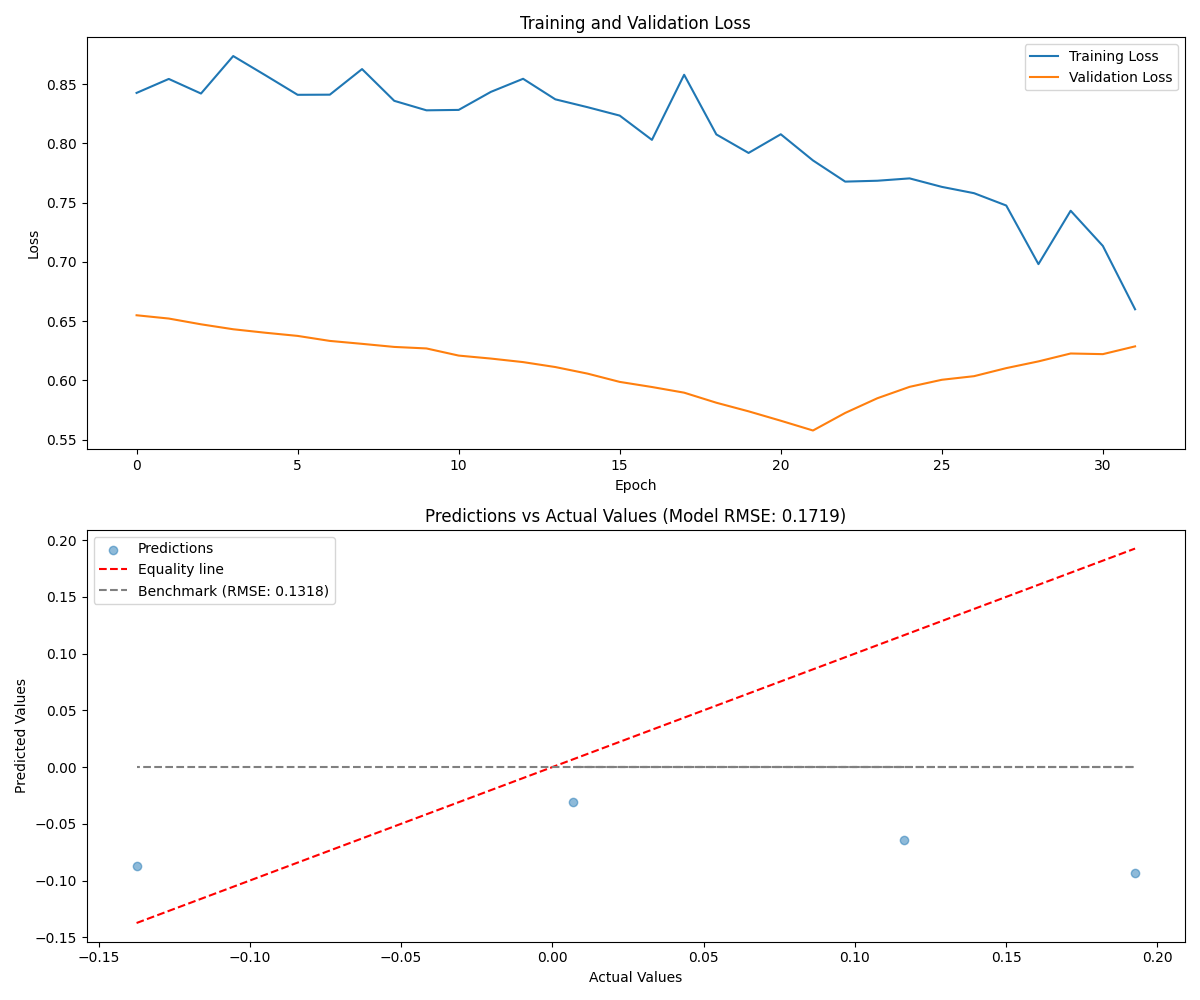
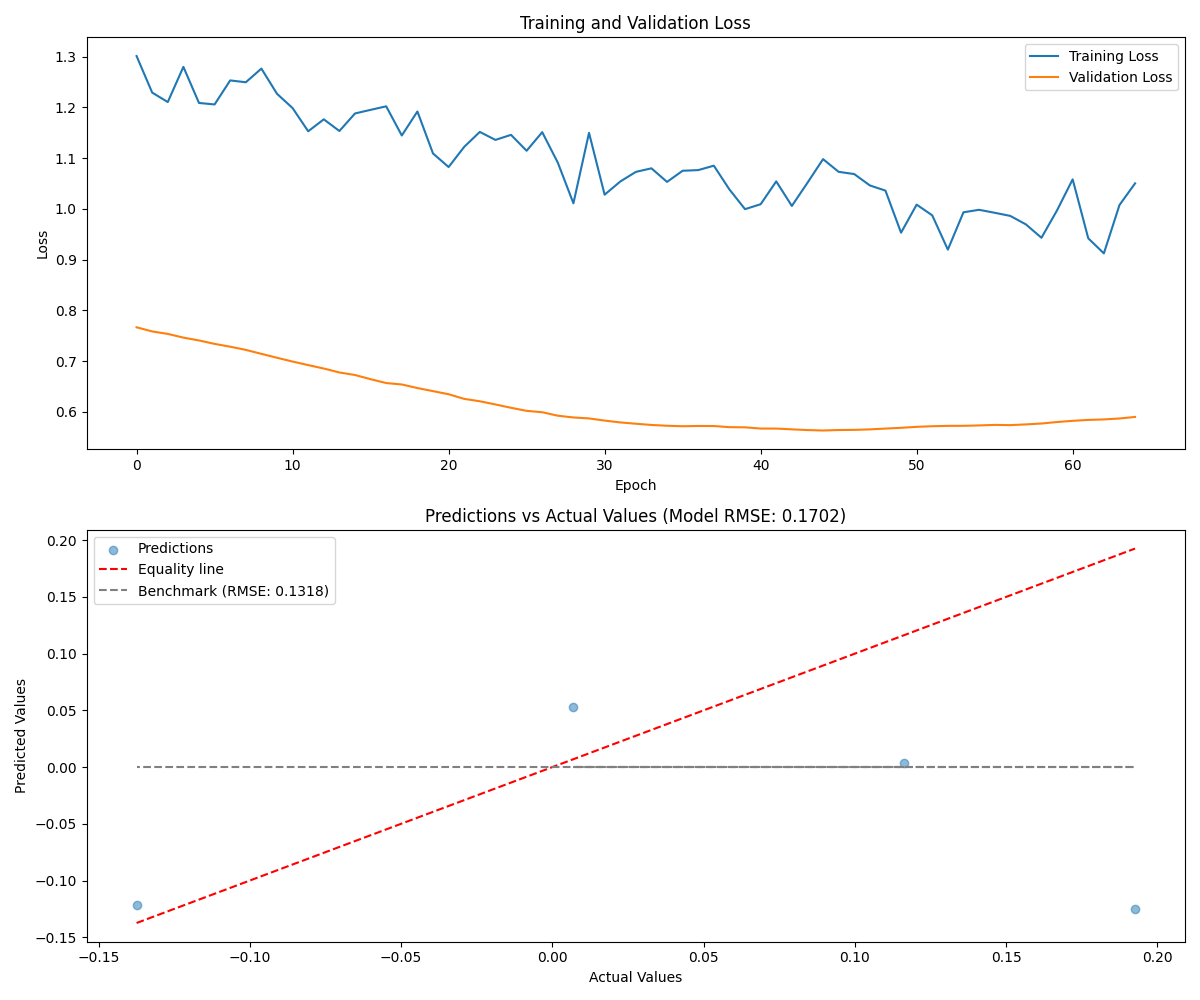
LSTM, with CUDA tester and NO Optuna

diff --git a/Basic_LSTM.py b/Basic_LSTM.py
@@ -11,6 +11,8 @@ from sklearn.preprocessing import StandardScaler
 from sklearn.model_selection import train_test_split
 import time
 from random import randint
+import optuna
+from optuna.trial import TrialState
 
 
 
@@ -418,16 +420,17 @@ def main():
     """
     # Hyperparameters
     input_size = 3  # Number of features ('heart_rate_data', 'respiration_data', 'stress_data')
-    hidden_size = 7  # Number of features in each hidden state
-    num_layers = 2  # Number of recurrent layers
-    dropout = 0.2  # Dropout probability
-    learning_rate = 0.001  # Learning rate
+    hidden_size = 9  # Number of features in each hidden state
+    num_layers = 1  # Number of recurrent layers
+    dropout = 0.3  # Dropout probability
+    learning_rate = 0.0005  # Learning rate
     num_epochs = 100  # Maximum number of training epochs
-    batch_size = 4  # Batch size - smaller due to limited number of samples (small reminder Batch is the number of samples processed before the model is updated)
+    batch_size = 2  # Batch size - smaller due to limited number of samples (small reminder Batch is the number of samples processed before the model is updated)
+    patience = 20  # Number of epochs with no improvement after which training will be stopped
 
     print(hidden_size)
     seed=42
-    split_seed=randint(0, 10000)
+    random_seed=randint(0, 10000)
 
     # Set random seed for reproducibility
     torch.manual_seed(seed)
@@ -483,7 +486,7 @@ def main():
         criterion=criterion,
         optimizer=optimizer,
         num_epochs=num_epochs,
-        patience=10
+        patience=patience
     )
     end = time.perf_counter()
     print(f"Training time: {end - start:.2f} seconds")
@@ -500,5 +503,5 @@ def main():
     return trained_model, evaluation_results
 
 
-if __name__ == "__main__":
-    main()
+#if __name__ == "__main__":
+main()
